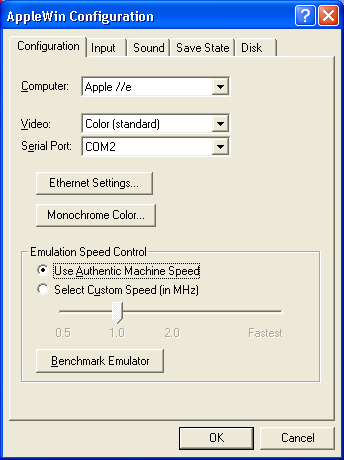
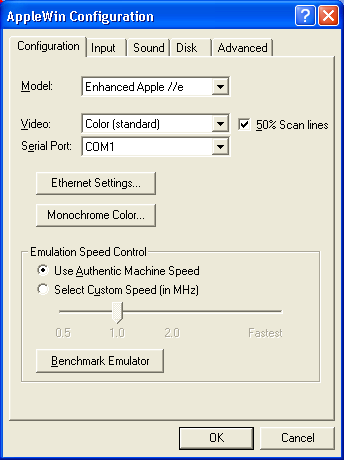
Updated CHM help for 1.16.1

diff --git a/trunk/AppleWin/help/toolbar.html b/trunk/AppleWin/help/toolbar.html
@@ -1,166 +1,71 @@
 <!DOCTYPE HTML PUBLIC "-//W3C//DTD HTML 4.01 Transitional//EN">
 <html>
+
 <head>
-
-
-  
   <meta http-equiv="Content-Type" content="text/html; charset=windows-1252">
-
-  
   <title>Using the ToolBar</title>
 </head>
 
-
 <body style="background-color: rgb(255, 255, 255); font-family: verdana;" alink="#008000" link="#008000" vlink="#008000">
-
-
-<h2 style="color: rgb(0, 128, 0);">Using
-the Toolbar</h2>
-
-
+<h2 style="color: rgb(0, 128, 0);">Using the Toolbar</h2>
 <hr size="4">
+
 <table border="0" cellpadding="3" cellspacing="3">
-
-
   <tbody>
-
-
     <tr>
-
-
       <td width="50"><img style="width: 46px; height: 46px;" alt="Help" src="img/tb-hlp.png"></td>
-
-
       <td><strong>F1 --
 Help:</strong><br>
-
-
 Displays the help file that you are currently reading.</td>
-
-
     </tr>
-
-
     <tr>
-
-
       <td><img style="width: 46px; height: 46px;" alt="Run" src="img/tb-run.png"></td>
-
-
       <td><strong>F2 --
 Run/Reboot:</strong><br>
-
-
-Starts the emulated machine if it is not currently running, or reboots
-it if it is currently running.</td>
-
-
+Starts the emulated machine if it is not currently running, or reboots (power-cycles)
+it if it is currently running. (Use Ctrl+F2 to simulate Ctrl+RESET.)</td>
     </tr>
-
-
     <tr>
-
-
       <td><img style="width: 46px; height: 46px;" alt="Drive 1:" src="img/tb-drv1.png"></td>
-
-
       <td><strong>F3 --
 Drive 1:</strong><br>
-
-
 Selects a disk image file for drive 1.</td>
-
-
     </tr>
-
-
     <tr>
-
-
       <td><img style="width: 46px; height: 46px;" alt="Drive 2:" src="img/tb-drv2.png"></td>
-
-
       <td><strong>F4 --
 Drive 2:</strong><br>
-
-
 Selects a disk image file for drive 2.</td>
-
-
     </tr>
-
-
     <tr>
-
-
       <td><img style="width: 46px; height: 46px;" alt="Swap Disks" src="img/tb-drvswp.png"></td>
-
-
       <td><strong>F5 --
 Swap Disks:</strong><br>
-
-
 Swap the disks in drives 1 and 2.</td>
-
-
     </tr>
-
-
     <tr>
-
-
       <td><img style="width: 46px; height: 46px;" alt="Toggle Window / Fullscreen" src="img/tb-fs.png"></td>
-
-
       <td><strong>F6 --
 Window/Full Screen:</strong><br>
-
-
 Toggle between Windowed and Full Screen video mode.</td>
-
-
     </tr>
-
-
     <tr>
-
-
       <td><img style="width: 46px; height: 46px;" alt="Debug" src="img/tb-dbg.png"></td>
-
-
       <td><strong>F7 --
 Debug:</strong><br>
-
-
 Displays the actual assembly language instructions that the emulated
 machine is executing.</td>
-
-
     </tr>
-
-
     <tr>
-
-
       <td><img style="width: 46px; height: 46px;" alt="Configure" src="img/tb-cfg.png"></td>
-
-
       <td><strong>F8 --
 Configure:</strong><br>
-
-
 Allows you to customize the emulated machine, and the way the Apple's
 input and output devices are mapped onto your PC's input and output
 devices.</td>
-
-
     </tr>
-
-
-  
   </tbody>
 </table>
-
 
 </body>
 </html>

diff --git a/trunk/AppleWin/help/keyboard.html b/trunk/AppleWin/help/keyboard.html
@@ -62,14 +62,18 @@
 		    See above.</p>
 		<p><span style="font-weight: bold;">Function Keys F1-F8:</span><br>
 			These PC function keys correspond to buttons on the <a href="toolbar.html">toolbar</a>.</p>
+		<p><span style="font-weight: bold;">Function Key F2 + Ctrl:</span><br>
+		    This PC function key combo act like Ctrl+RESET (instead of power-cycle).</p>
 		<p><span style="font-weight: bold;">Function Key F9:</span><br>
 			This PC function key will cycle through AppleWin's display modes:&nbsp; 
 			monochrome (custom), color (normal), color (text optimized), color (TV 
 			emulation), etc. This shortcut allows you to switch display modes without going 
 			through the configuration dialog. <br>NB. Use Shift+F9 to reverse-cycle the display modes.</p>
-		<p><span style="font-weight: bold;">Function Key F9 + Ctrl:<br></span>This
-            PC function key will cycle through AppleWin's character sets:&nbsp;
-            original Apple II charsets and clones' charsets. This shortcut allows
+		<p><span style="font-weight: bold;">Function Key F9 + Ctrl + Shift:</span><br>
+		    This PC function key combo will toggle 50% scanline mode</p>
+		<p><span style="font-weight: bold;">Function Key F9 + Ctrl:<br></span>
+            This PC function key combo will cycle through AppleWin's character sets:&nbsp;
+            original Apple II charsets and clones' char-sets. This shortcut allows
             you to override the default character sets of the Apple II model or clone.</p>
 		<p><span style="font-weight: bold;">Function Key F10 (or Ctrl+left mouse button):</span><br>
 			This PC function key will stop emulating an Apple joystick with the PC's mouse.<br>In

diff --git a/trunk/AppleWin/help/CommandLine.html b/trunk/AppleWin/help/CommandLine.html
@@ -24,7 +24,9 @@
 		-printscreen<br>
 		Enable the dialog box to display the last file saved to<br><br>
 		-use-real-printer<br>
-		Enables Advanced configuration control to allow dumping to a real printer<br>
+		Enables Advanced configuration control to allow dumping to a real printer<br><br>
+		-noreg<br>
+		Disable registration of file extensions (.bin/.do/.dsk/.nib/.po)<br>
 		<P>&nbsp;</P>
 		<P style="FONT-WEIGHT: bold">Debug arguments:
 		</P>

diff --git a/trunk/AppleWin/help/cfg-config.html b/trunk/AppleWin/help/cfg-config.html
@@ -51,6 +51,8 @@
 				purple, pink, yellow and aquamarine. This effect was used in commercial games 
 				like Karateka and many hires adventures (eg. Mindshadow).
 			</li>
+                <li><strong>50% Scan line :</strong> Only draw alternate scanline (for better monitor
+                    authenticity).</li>
 		</ul>
 		<P>
 			<strong>Serial Port:<br>

diff --git a/trunk/AppleWin/help/savestate.html b/trunk/AppleWin/help/savestate.html
@@ -25,6 +25,7 @@
 		        <li>Uthernet card</li>
 		        <li>Mouse card</li>
 		        <li>CP/M SoftCard</li>
+		        <li>Parallel Printer card</li>
 		    </ul>
 		<p>Note: Only the file names of the disk images are stored in the .aws (not the 
 			full path). This allows you to move your disk image around or distribute them. 
